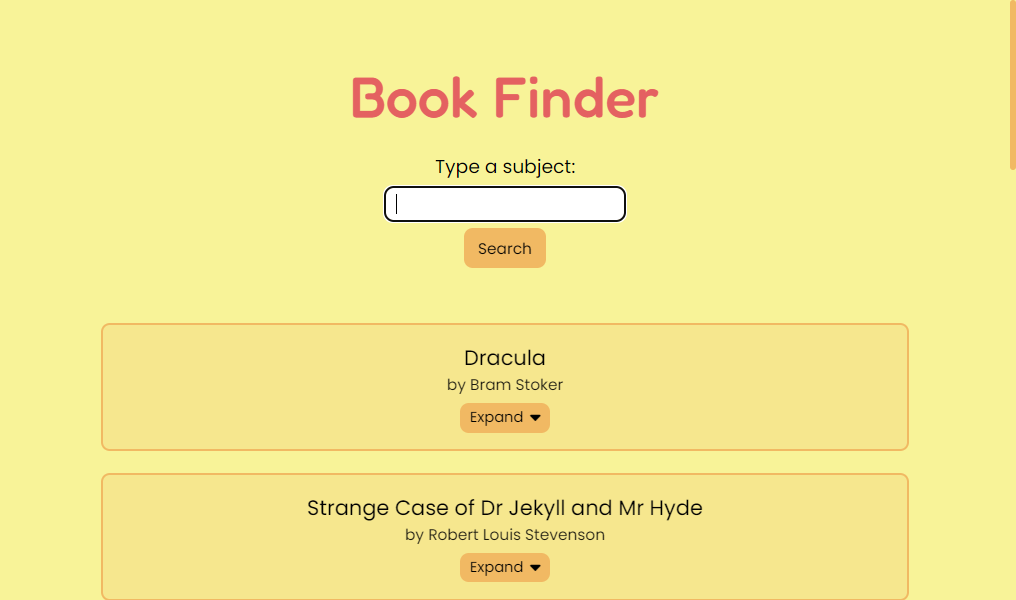
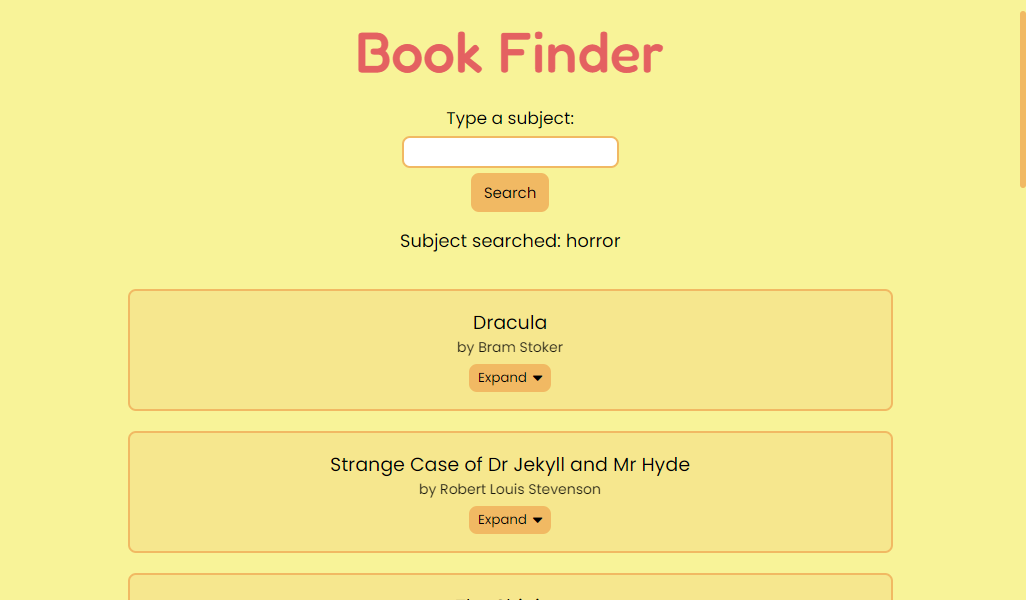
Added subject searched element and updated screenshot

diff --git a/css/style.css b/css/style.css
@@ -62,7 +62,7 @@ h1 {
 
 /* Search form */
 form {
-  margin-bottom: 50px;
+  margin-bottom: 35px;
 }
 
 form label {
@@ -78,11 +78,16 @@ form input[type="text"] {
 
 form button {
   padding: 8px 13px;
+  margin-bottom: 15px;
 }
 
 form button:hover,
 form button:active {
   background-color: #eeac47;
+}
+
+form div {
+  font-size: 17px;
 }
 
 /* Input error message */
@@ -227,6 +232,9 @@ form button:active {
   }
   form button {
     font-size: 14px;
+  }
+  form div {
+    font-size: 18px;
   }
   .bookItem .title {
     font-size: 18px;

diff --git a/scss/style.scss b/scss/style.scss
@@ -60,7 +60,7 @@ h1 {
 /* Search form */
 form {
   @extend %flex-column-center;
-  margin-bottom: 50px;
+  margin-bottom: 35px;
 
   label {
     margin-bottom: 5px;
@@ -76,11 +76,16 @@ form {
   button {
     @extend %button;
     padding: 8px 13px;
+    margin-bottom: 15px;
   }
 
   button:hover,
   button:active {
     background-color: $darker-accent-color;
+  }
+
+  div {
+    font-size: 17px;
   }
 }
 
@@ -219,6 +224,10 @@ form {
 
     button {
       font-size: 14px;
+    }
+
+    div {
+      font-size: 18px;
     }
   }
 

diff --git a/js/book-items.js b/js/book-items.js
@@ -1,3 +1,17 @@
+// Create searched subject element
+function showSearched(subj) {
+  const subjSearched = document.createElement("div");
+  subjSearched.innerText = `Subject searched: ${subj}`;
+
+  form.append(subjSearched);
+
+  // Delete subject searched text when the user clicks on search button again
+  searchBtn.addEventListener("click", () => {
+    subjSearched.remove();
+  });
+}
+
+// Create book item
 function createBookItem(resp, num) {
   // Create single book item
   const bookItem = document.createElement("div");

diff --git a/js/axios-requests.js b/js/axios-requests.js
@@ -6,6 +6,9 @@ function getBookList(subject) {
       // Make loader disappear
       loader.classList.remove("show-loader");
 
+      // Show subject searched
+      showSearched(subject);
+
       // Iterate through array of works with that subject and create book items
       // In order to follow the books order of the json file, the book items are created and inserted in reverse order
       for (let i = response.data.works.length - 1; i >= 0; i--) {

diff --git a/js/expanded-book-items.js b/js/expanded-book-items.js
@@ -43,7 +43,7 @@ function formatCover(cover, id, bookAuthor, bookTitle) {
                        <span class="authorS">${author}</span>`;
   } else {
     cover.style.backgroundImage = `url(https://covers.openlibrary.org/b/id/${id}-M.jpg)`;
-    cover.setAttribute("title", `${bookTitle.textContent}'s cover`);
+    cover.setAttribute("title", `Cover of ${bookTitle.textContent}`);
   }
 }
 
